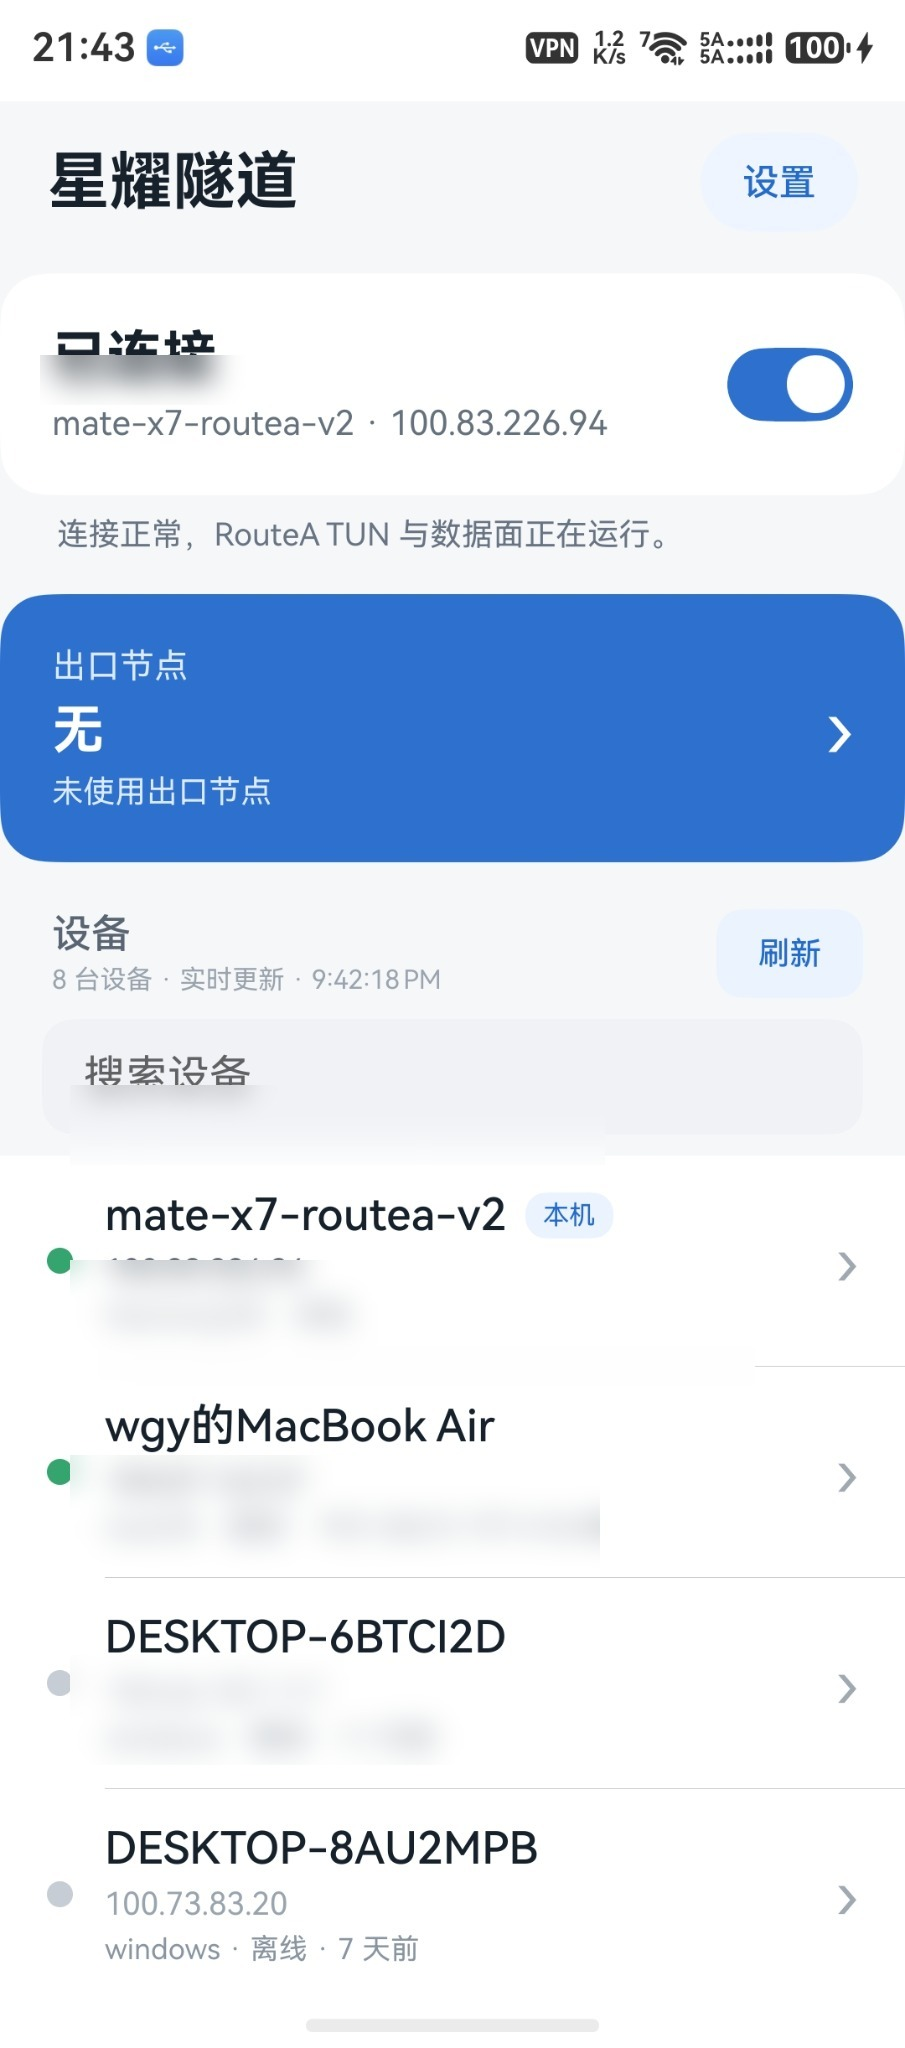
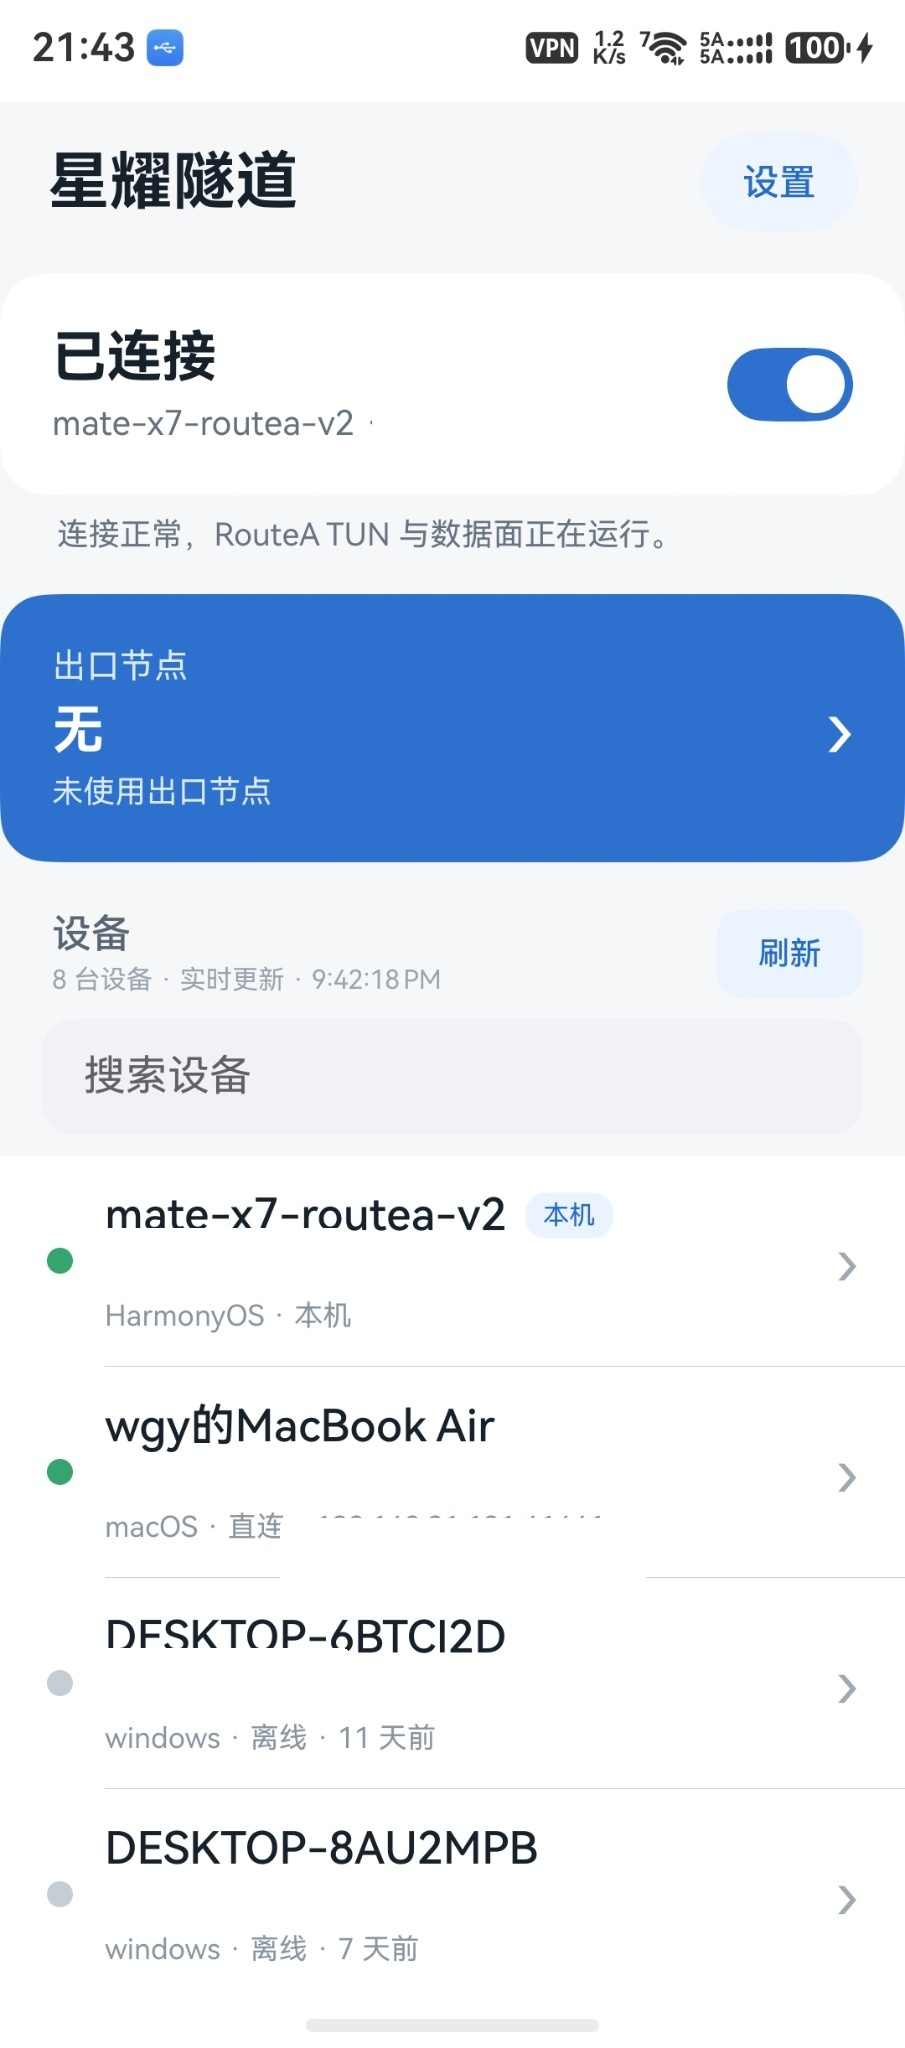
Add files via upload

diff --git a/README.md b/README.md
@@ -1,4 +1,4 @@
-# HarmoTail website — V2
+# HarmoTail website — V2.1 Privacy Fix
 
 Public landing page for **HarmoTail — a production-focused native Tailscale-compatible client for HarmonyOS NEXT.**
 
@@ -25,3 +25,15 @@ GitHub Pages should remain configured as:
 Expected URL:
 
 `https://wuwu888.github.io/harmotail-harmonyos/`
+
+
+## V2.1 privacy correction
+
+The overview screenshot used in both homepage locations was corrected:
+
+- “已连接” remains fully visible.
+- Only the Tailnet IP beneath “已连接” is redacted.
+- Every visible Tailnet IP in the device list is redacted, including the bottom device.
+- The direct LAN endpoint is redacted.
+- Device names remain visible for a natural product-demo appearance.
+- Both homepage placements update automatically because they reference the same asset.
